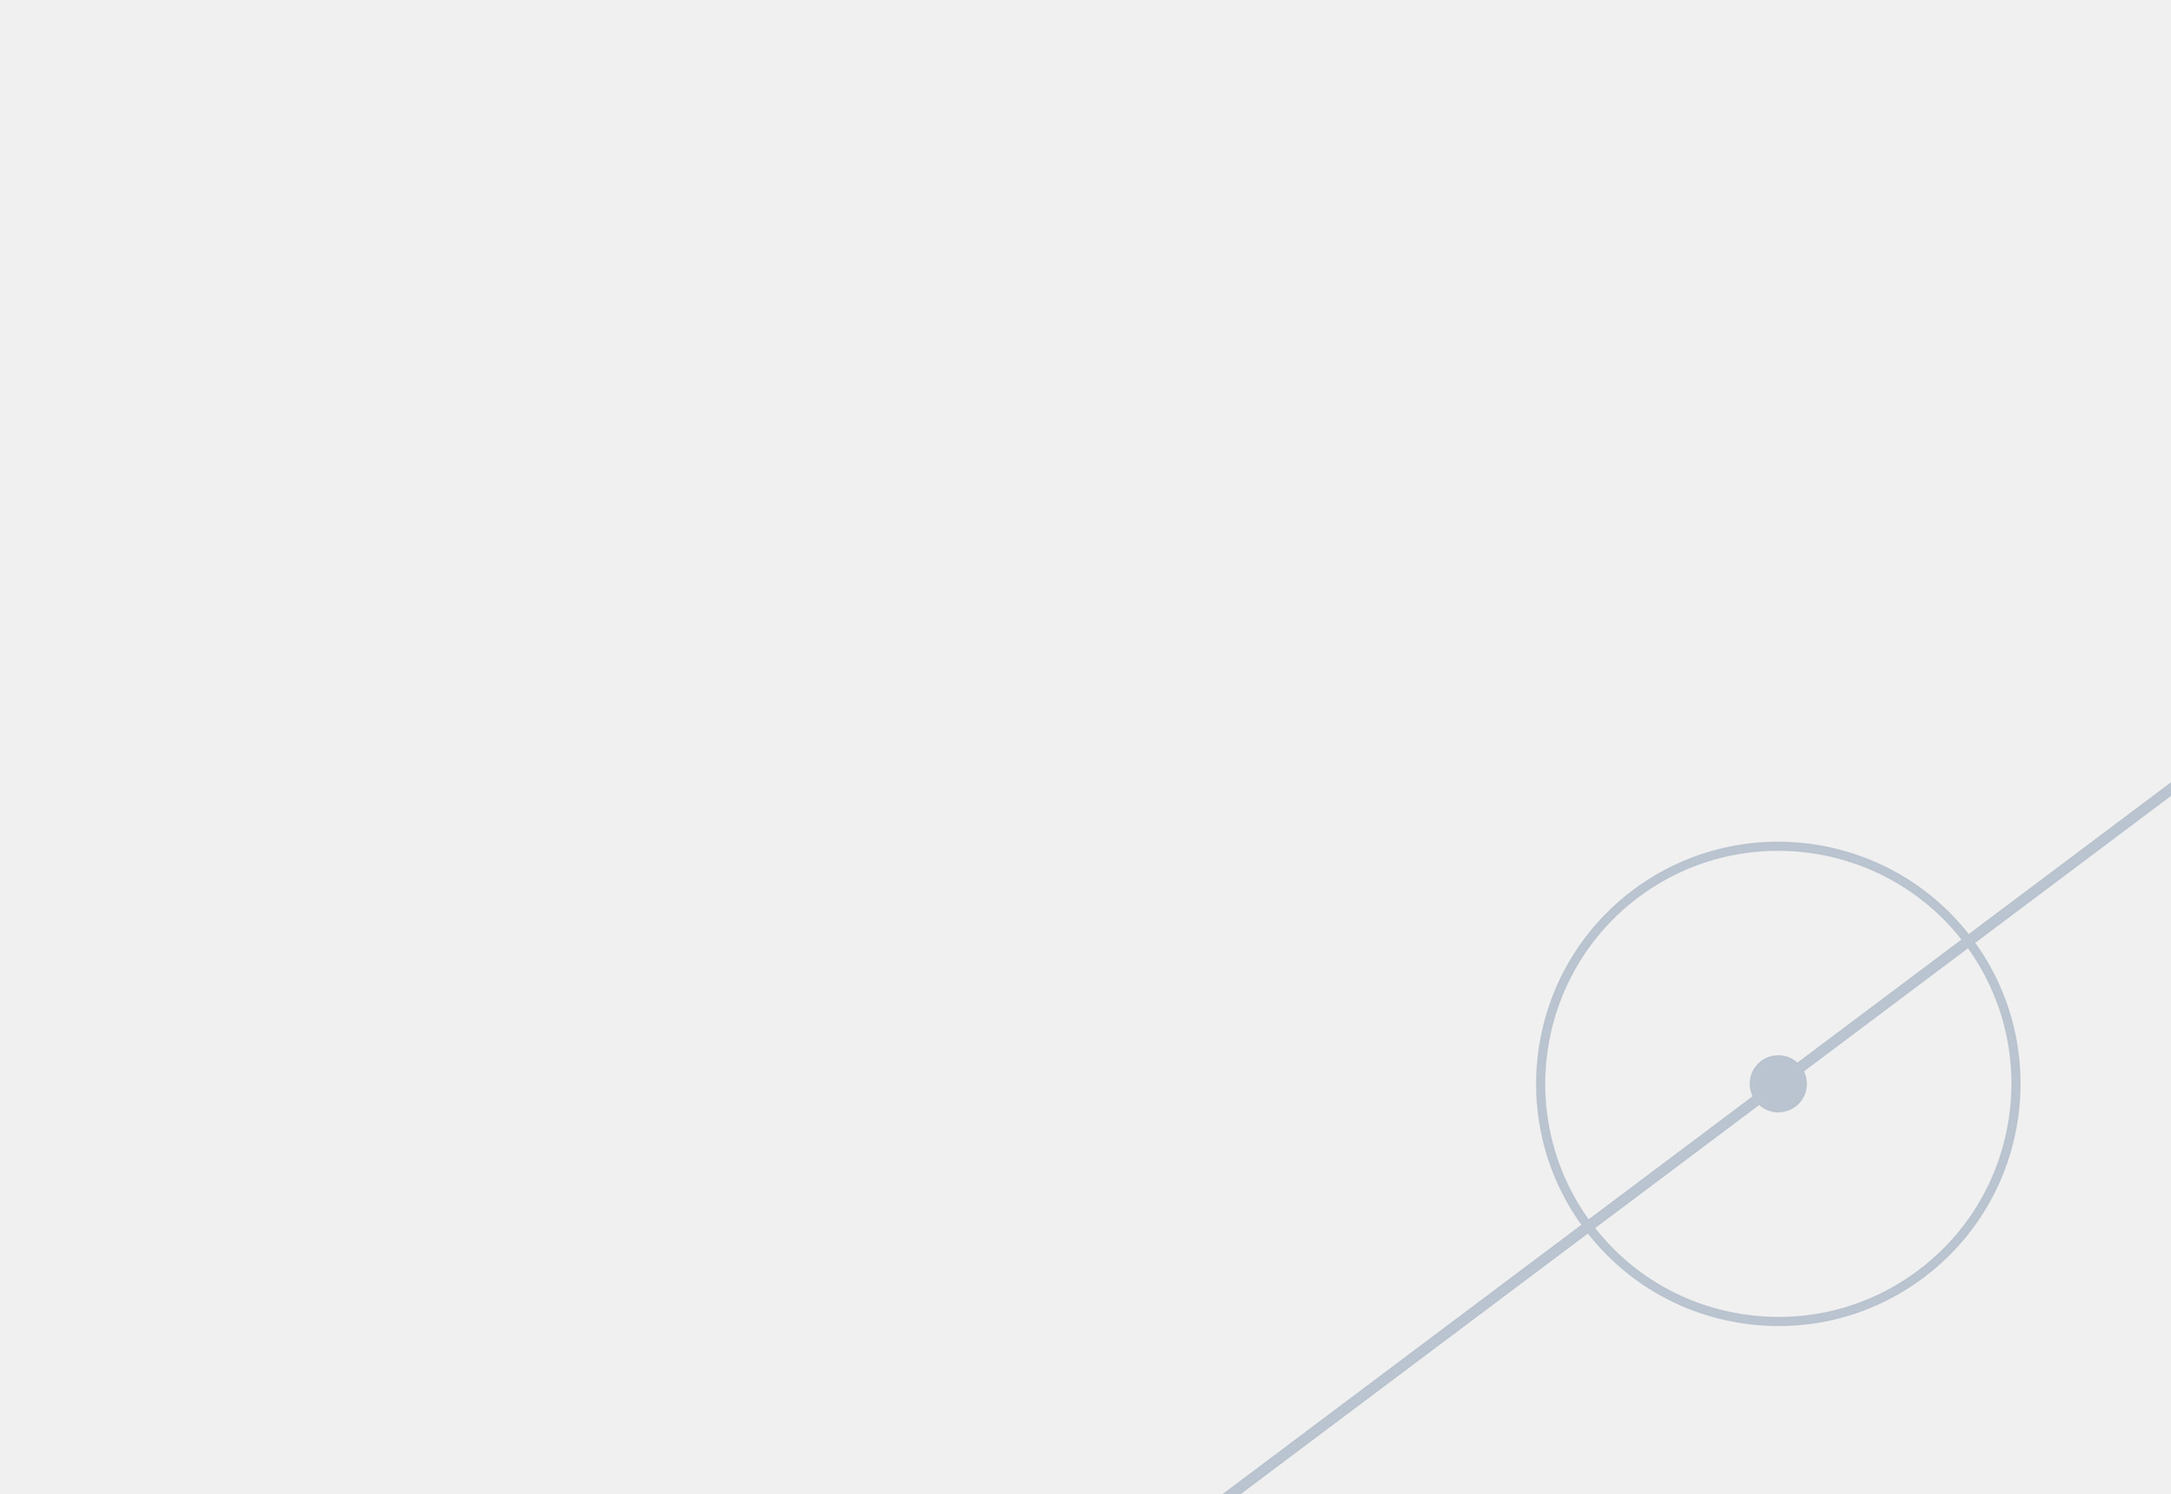
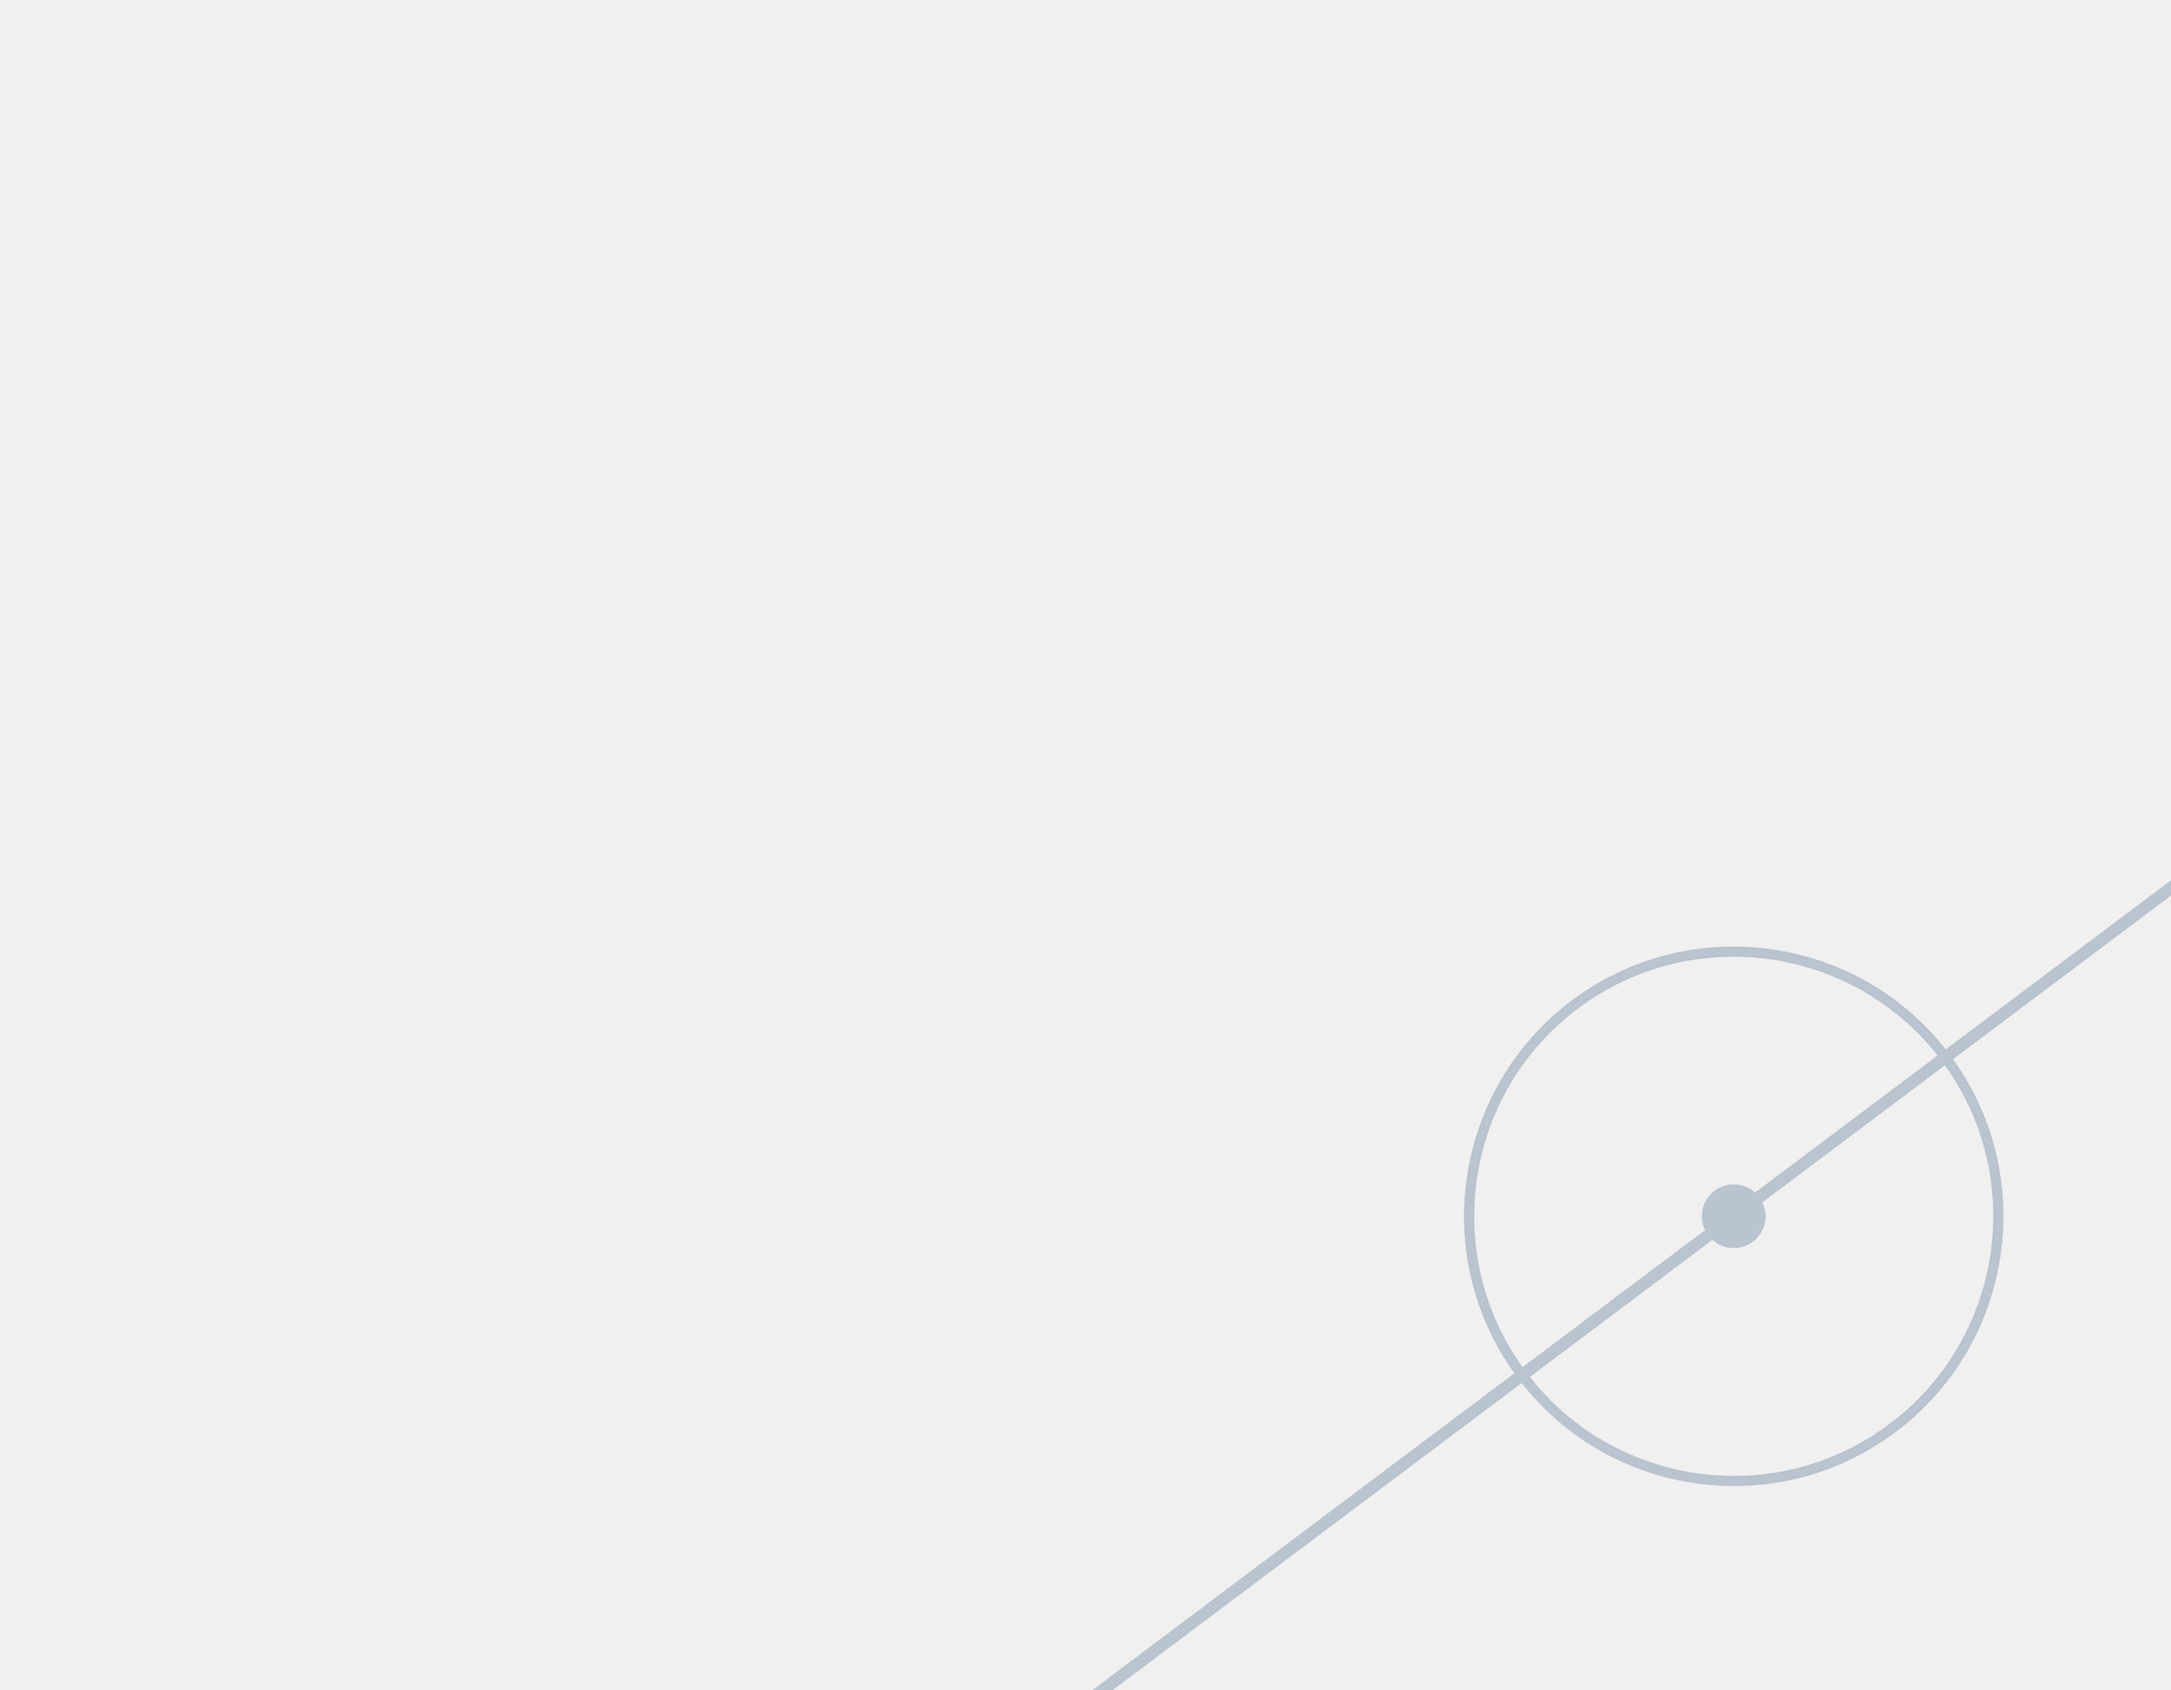
background image

Changed region(s): [[0.4966, 0.5591, 0.9621, 1.0], [0.9621, 0.5281, 1.0, 0.5591]]

diff --git a/css/styles.css b/css/styles.css
@@ -16,13 +16,14 @@ html, body, div, span, applet, object, iframe, h1, h2, h3, h4, h5, h6, p, blockq
 html { overflow-y: scroll; }
 body { 
  background-image: url("../img/bg.jpg");
-    background-position:bottom;
+    background-position:right;
   background-repeat: no-repeat;
   background-size:cover;
   position: relative;
   font-family: 'Helvetica Neue', Helvetica, Arial, sans-serif;
   color: #313131;
   line-height:normal; 
+
 }
   #myBtn {
   display:none;
@@ -311,22 +312,22 @@ form .basictxt {
   width: 850px;
   margin: 0 auto;
   padding-top: 30px;
+padding:30px;
 
 }
 
 #content {
   display: block;
 	border-radius:20px;
-	margin-bottom:30%;
-	margin-top:90px;
+	margin-bottom:40%;
+	margin-top:100px;
   width: 100%;
-  background: #fff;
-  padding: 25px 20px;
+ 
+  padding: 15px 10px;
 padding-left:20px;
-  padding-bottom: 35px;
-  -webkit-box-shadow: rgba(0, 0, 0, 0.1) 0px 1px 2px 0px;
+ /* -webkit-box-shadow: rgba(0, 0, 0, 0.1) 0px 1px 2px 0px;
   -moz-box-shadow: rgba(0, 0, 0, 0.1) 0px 1px 2px 0px;
-  box-shadow: rgba(0, 0, 0, 0.1) 0px 1px 2px 0px;
+  box-shadow: rgba(0, 0, 0, 0.1) 0px 1px 2px 0px;*/
 }
 
 #content2 {
@@ -527,12 +528,12 @@ hr {
   #content {
   display: block;
   width: 100%;
-  background: #fff;
+  background:;
   padding: 10px 8px;
   padding-bottom: 35px;
-  -webkit-box-shadow: rgba(0, 0, 0, 0.1) 0px 1px 2px 0px;
+ /* -webkit-box-shadow: rgba(0, 0, 0, 0.1) 0px 1px 2px 0px;
   -moz-box-shadow: rgba(0, 0, 0, 0.1) 0px 1px 2px 0px;
-  box-shadow: rgba(0, 0, 0, 0.1) 0px 1px 2px 0px;
+  box-shadow: rgba(0, 0, 0, 0.1) 0px 1px 2px 0px;*/
 }
 	
 #topbar {

diff --git a/index 2.html b/index 2.html
@@ -50,7 +50,6 @@ function topFunction() {
 </head>
 
 <body>
-<button onclick="topFunction()" id="myBtn" title="Go to top"><i class="fas fa-arrow-up"></i></button>
 <div class="navigation-bar">
   <div id="navigation-container"> <img src="img/MFA-logo.png">
     </li>
@@ -73,7 +72,6 @@ function topFunction() {
 	<a href="resources.html"><div id="box"><i class="fas fa-globe-americas"></i>FIFA Minor TMS</div></a>
 	</div>
 
-	
 
 	
 </body>
